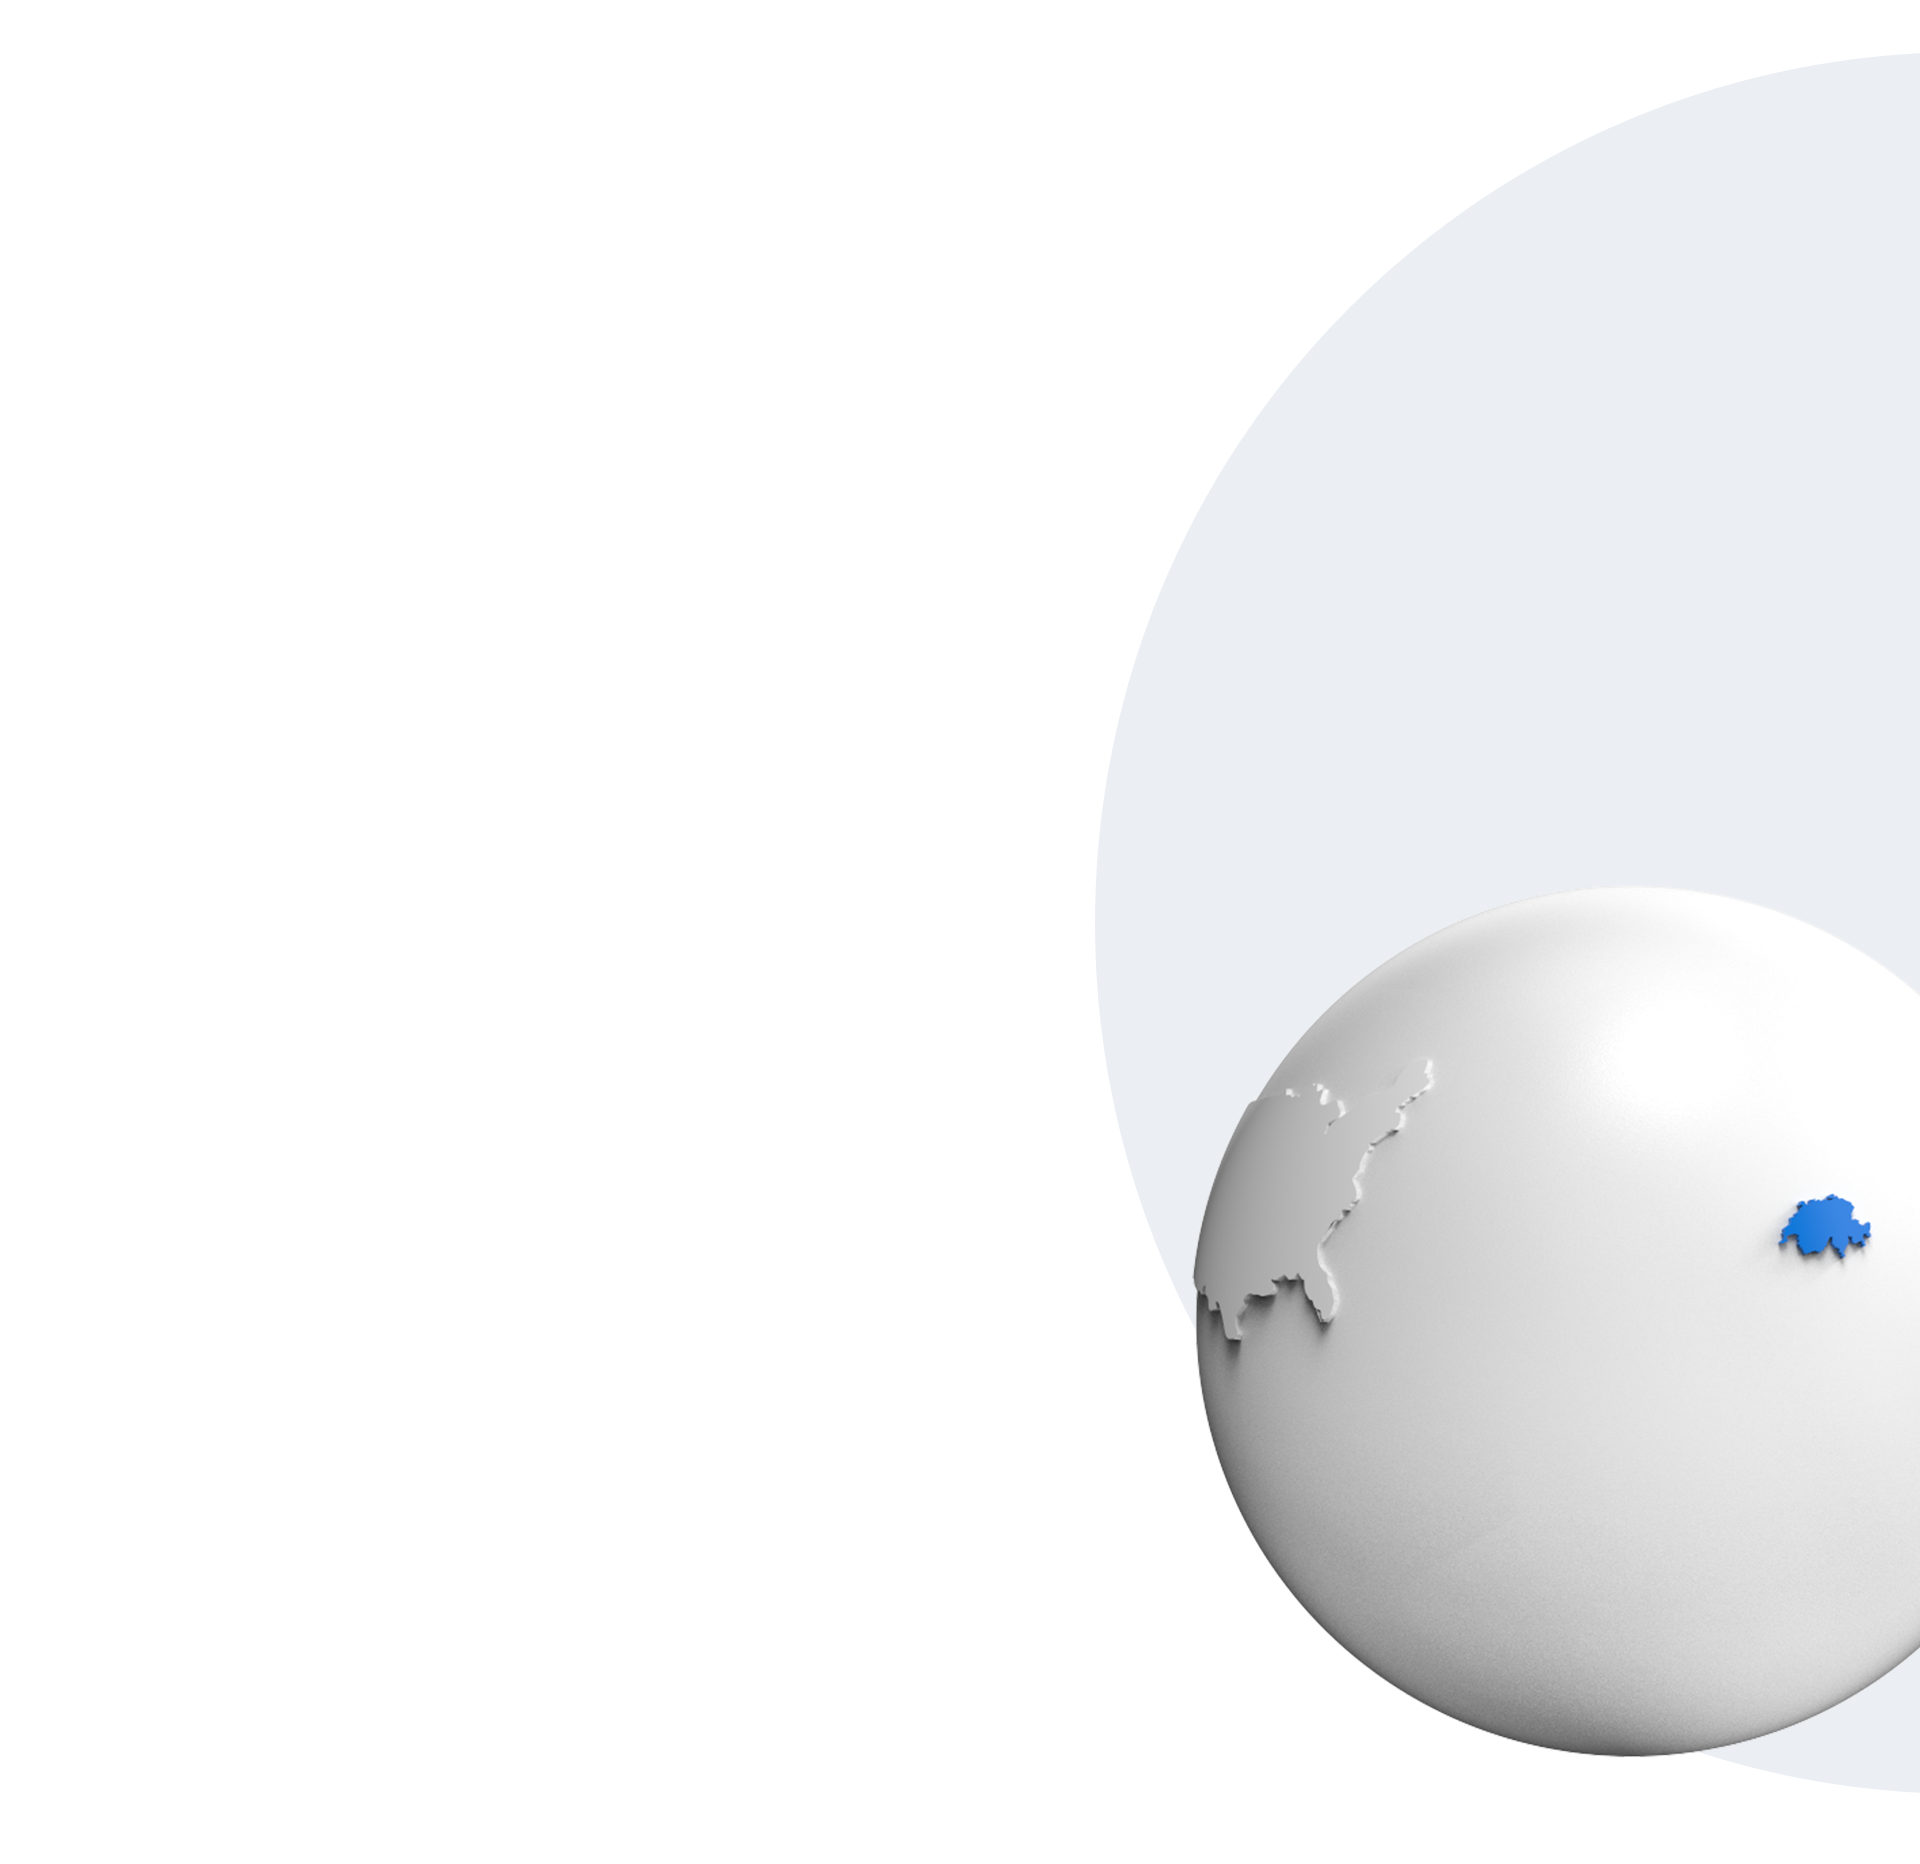
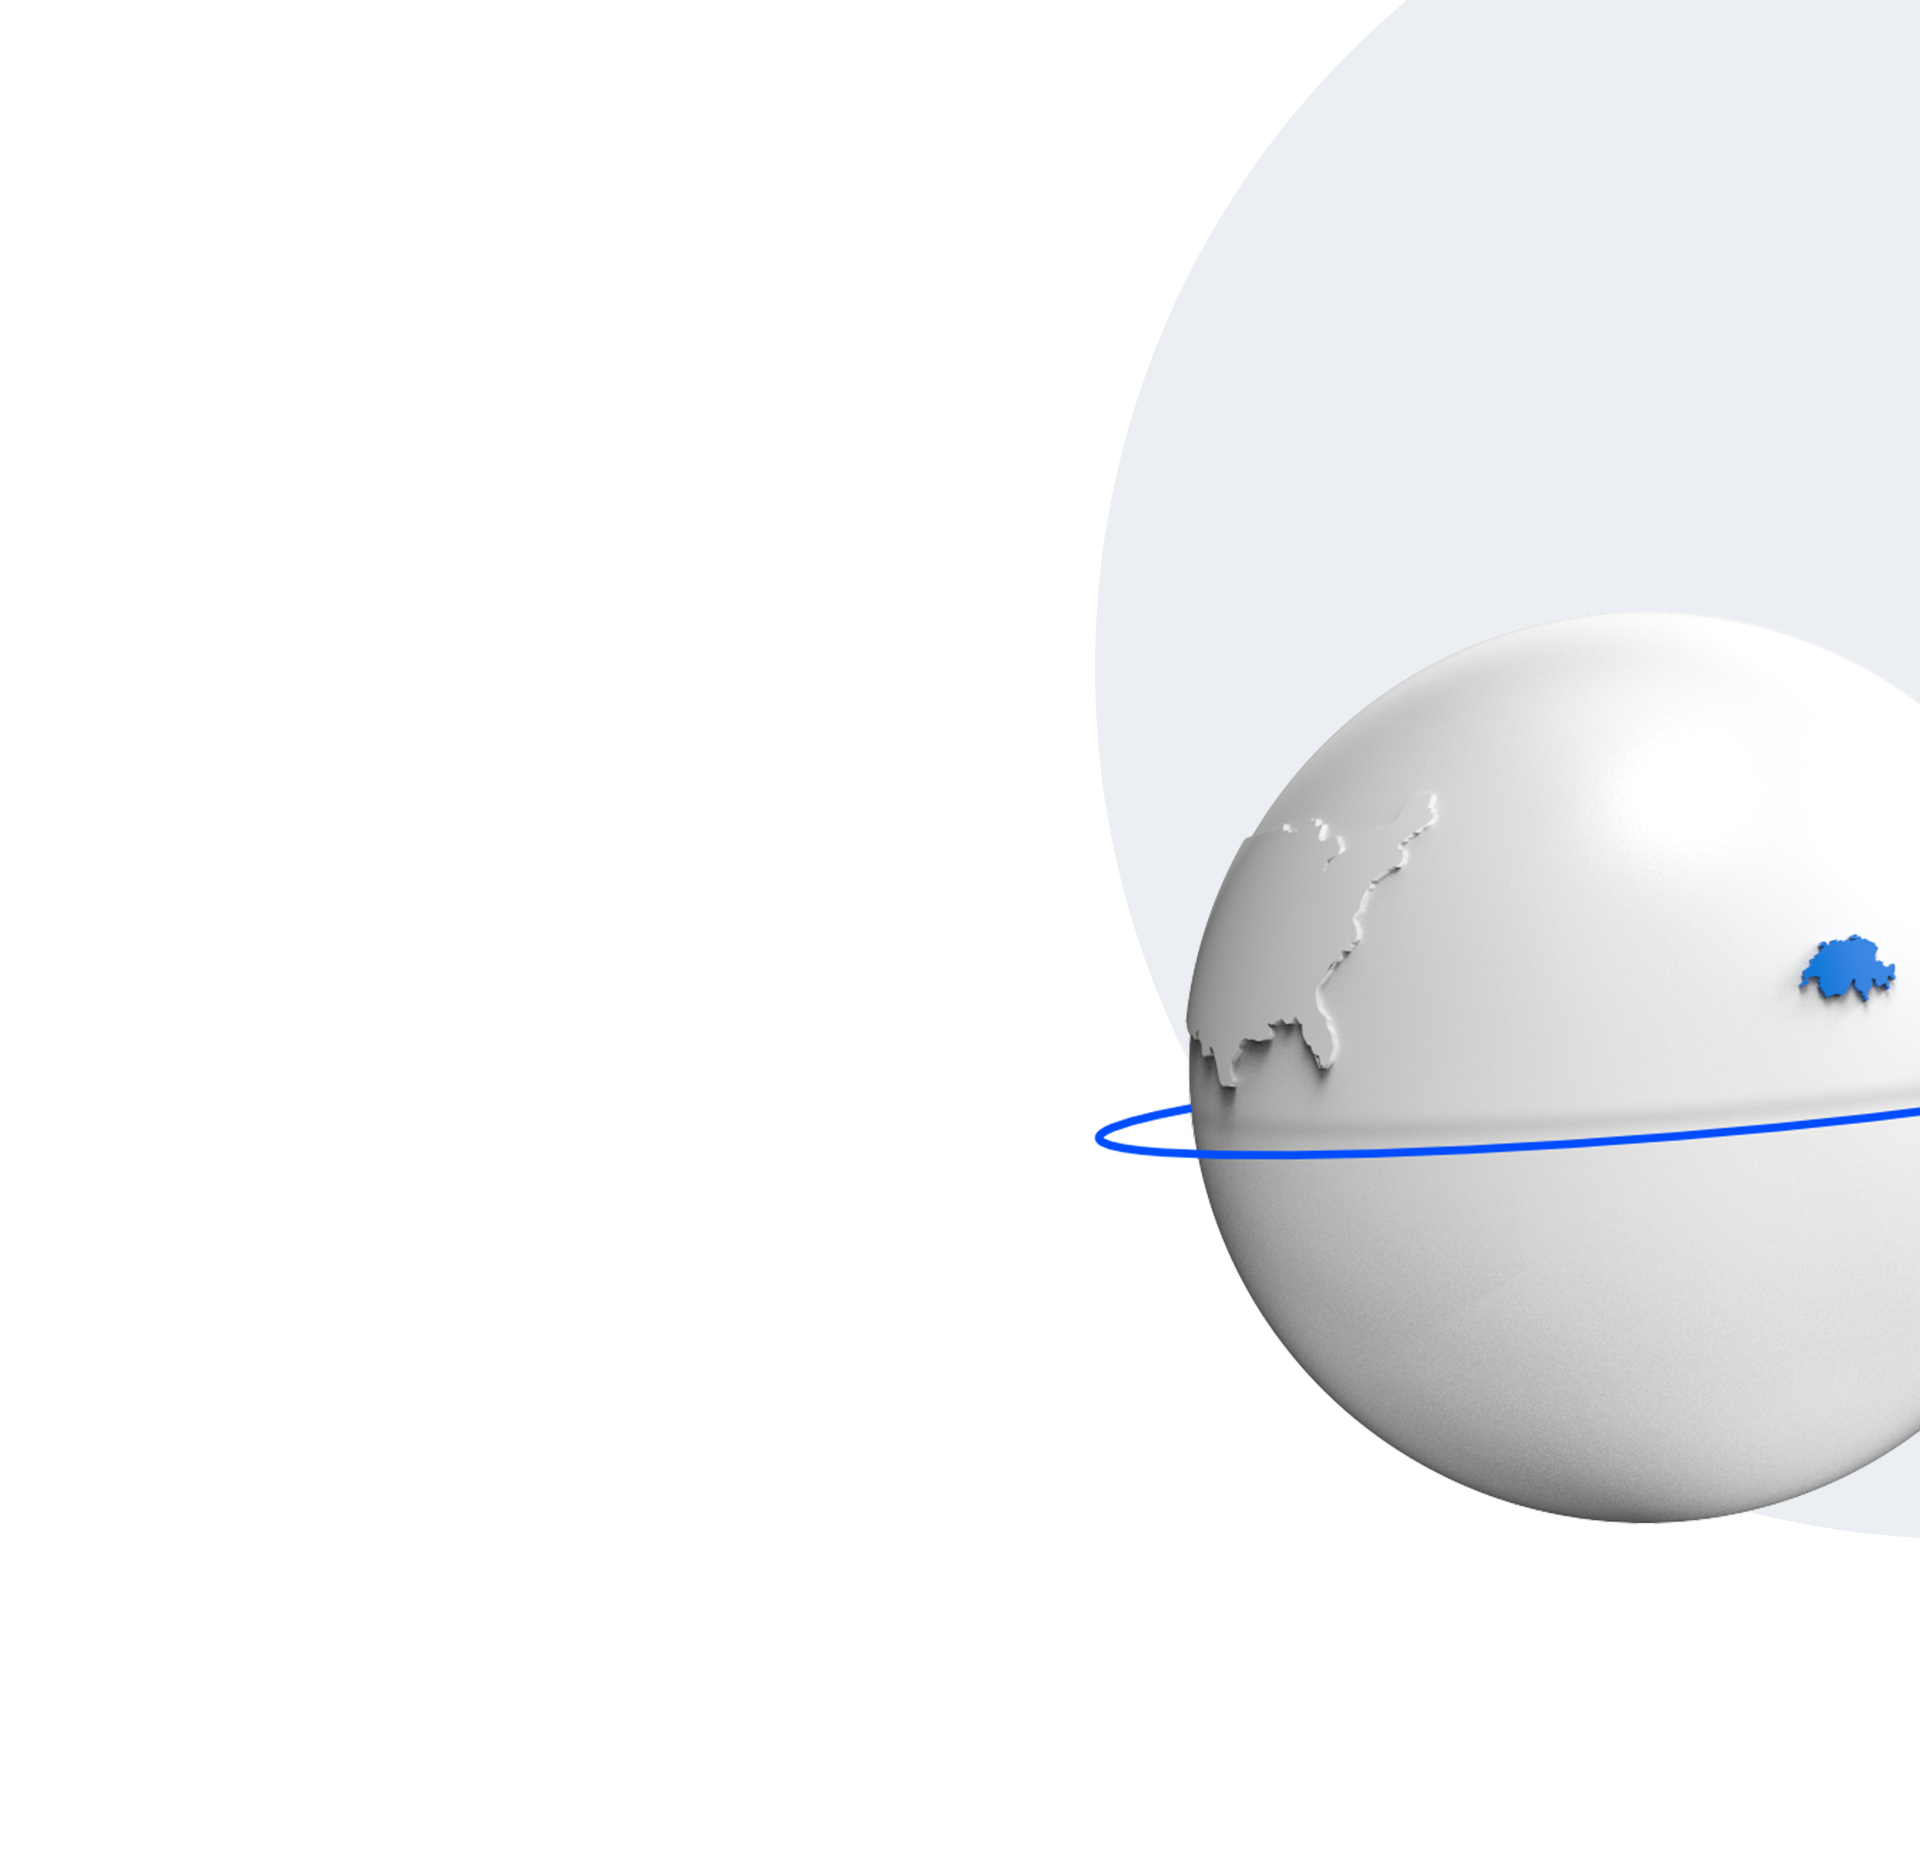
Linien Interlink

Changed region(s): [[0.5625, 0.3423, 1.0, 0.9646], [0.9688, 0.7468, 1.0, 0.7779]]

diff --git a/pages/produkte/interlink.vue b/pages/produkte/interlink.vue
@@ -27,103 +27,107 @@
 				</div>
 			</div>
 		</div>
-		<div class="background-diagonal-2">
-			<div style="margin-top: 8rem" class="vernetzen">
+		<div class="linebg">
+			<div>
+				<div style="margin-top: 8rem" class="vernetzen">
+					<div class="container">
+						<div class="grid cols-2">
+							<div style="margin-top: 16rem">
+								<h3>Unabhängig Vernetzen</h3>
+								<h2>Echtzeit Kommunikation zwischen allen Systemen</h2>
+								<p>
+									InterLink "übersetzt" die spezifischen Protokolle in ein Einheitliches. Die Kommunikation zwischen den Terminals
+									und dem Managementsystem findet in Echtzeit statt. Weltweit. Dabei spielt es keine Rolle, ob die Installation nur
+									ein einziges Terminal umfasst oder mehrere Tausend in einem Grosskonzern mit global verteilten
+								</p>
+							</div>
+						</div>
+					</div>
+				</div>
+			</div>
+			<div class="something" style="margin-top: 10rem">
+				<div class="container">
+					<h3 style="text-align: center">BIXBI SYSTEMS / KABA / MPDV / PCS / PRIMION / TYCO / VICKING</h3>
+					<h2 style="text-align: center; margin-bottom: 8rem">InterLink kommuniziert mit Terminals verschiedener Hersteller</h2>
+					<div class="grid cols-5">
+						<div style="grid-column: span 3">
+							<h1 style="font-size: 5rem; margin-bottom: 0; line-height: 1em">20</h1>
+							<h3 style="margin-bottom: 2rem">Jahre</h3>
+							<h1 style="font-size: 5rem; margin-bottom: 0; line-height: 1em">30'000</h1>
+							<h3 style="margin-bottom: 2rem">Terminals</h3>
+							<h1 style="font-size: 5rem; margin-bottom: 0; line-height: 1em">3'000'000</h1>
+							<h3 style="margin-bottom: 2rem">Buchungen pro Tag</h3>
+						</div>
+						<div style="grid-column: span 2">
+							<p>
+								Mit seinen weltweit über 30'000 Terminals und den damit gemachten 3'000'000 Buchungen pro Tag, hat sich InterLink zu
+								einer stabilen Konstante im Markt entwickelt und ist seit mehr als 20 Jahren mit höchster Zuverlässigkeit im Einsatz.
+								Aktuelle Generationen der Terminals werden unterstützt und neue laufend hinzugefügt.
+							</p>
+						</div>
+					</div>
+				</div>
+			</div>
+			<div class="funktionen" style="margin-top: 16rem">
 				<div class="container">
 					<div class="grid cols-2">
-						<div style="margin-top: 16rem">
-							<h3>Unabhängig Vernetzen</h3>
-							<h2>Echtzeit Kommunikation zwischen allen Systemen</h2>
+						<span></span>
+						<div style="margin-top: 6rem">
+							<h3>Funktionen</h3>
+							<h2>Da schaltet die Konkurrenz ab</h2>
 							<p>
-								InterLink "übersetzt" die spezifischen Protokolle in ein Einheitliches. Die Kommunikation zwischen den Terminals und
-								dem Managementsystem findet in Echtzeit statt. Weltweit. Dabei spielt es keine Rolle, ob die Installation nur ein
-								einziges Terminal umfasst oder mehrere Tausend in einem Grosskonzern mit global verteilten
+								Weitere interessante Aspekte sind der Offline-Betrieb, die Datensicherung, sowie ein einzigartiges technisches
+								Analysetool.
 							</p>
 						</div>
 					</div>
 				</div>
 			</div>
 		</div>
-		<div class="something" style="margin-top: 8rem">
-			<div class="container">
-				<h3 style="text-align: center">BIXBI SYSTEMS / KABA / MPDV / PCS / PRIMION / TYCO / VICKING</h3>
-				<h2 style="text-align: center; margin-bottom: 8rem">InterLink kommuniziert mit Terminals verschiedener Hersteller</h2>
-				<div class="grid cols-5">
-					<div style="grid-column: span 3">
-						<h1 style="font-size: 5rem; margin-bottom: 0; line-height: 1em">20</h1>
-						<h3 style="margin-bottom: 2rem">Jahre</h3>
-						<h1 style="font-size: 5rem; margin-bottom: 0; line-height: 1em">30'000</h1>
-						<h3 style="margin-bottom: 2rem">Terminals</h3>
-						<h1 style="font-size: 5rem; margin-bottom: 0; line-height: 1em">3'000'000</h1>
-						<h3 style="margin-bottom: 2rem">Buchungen pro Tag</h3>
-					</div>
-					<div style="grid-column: span 2">
-						<p>
-							Mit seinen weltweit über 30'000 Terminals und den damit gemachten 3'000'000 Buchungen pro Tag, hat sich InterLink zu einer
-							stabilen Konstante im Markt entwickelt und ist seit mehr als 20 Jahren mit höchster Zuverlässigkeit im Einsatz. Aktuelle
-							Generationen der Terminals werden unterstützt und neue laufend hinzugefügt.
-						</p>
-					</div>
-				</div>
-			</div>
-		</div>
-		<div class="funktionen" style="margin-top: 16rem">
-			<div class="container">
-				<div class="grid cols-2">
-					<span></span>
-					<div style="margin-top: 6rem">
-						<h3>Funktionen</h3>
-						<h2>Da schaltet die Konkurrenz ab</h2>
-						<p>
-							Weitere interessante Aspekte sind der Offline-Betrieb, die Datensicherung, sowie ein einzigartiges technisches
-							Analysetool.
-						</p>
-					</div>
-				</div>
-			</div>
-		</div>
 		<div class="background-diagonal-3">
-			<div class="clock">
-				<div class="container">
-					<div :class="{ text: true, open: showContentKomp }">
-						<h3>ARBEITSZEITEN AUSWERTEN</h3>
-						<h2>Kommunikation kann so viel mehr</h2>
-						<p class="intro">
-							Auf der Plattform eines Systemanbieters werden Arbeitszeiten ausgewertet und Zutrittsberechtigungen der Mitarbeitenden in
-							einem Betrieb festgelegt. Diese Vorgänge erfordern eine Kommunikation mit den Terminals, die auf die Standorte der.
-						</p>
-						<img
-							@click="toggleContentKomp"
-							:class="{
-								'more-icon': true,
-								mirrored: showContentKomp,
-							}"
-							src="https://admin.conzepta.rechtwinklig.ch/wp-content/uploads/2020/11/icon_arrowDown.png"
-							alt=""
-						/>
-						<p :class="{ more: true, active: showContentKomp }">
-							Oftmals stehen in einem Betrieb Terminals verschiedener Hersteller im Einsatz. Dabei zeigt sich oft folgendes Problem: Die
-							Terminals der verschiedenen Hersteller ‘’sprechen eine unterschiedliche Sprache’’, d.h. die Terminals und ihr Host
-							verstehen einander nicht!.
-						</p>
+			<div class="padding-large">
+				<div class="clock">
+					<div class="container">
+						<div :class="{ text: true, open: showContentKomp }">
+							<h3>ARBEITSZEITEN AUSWERTEN</h3>
+							<h2>Kommunikation kann so viel mehr</h2>
+							<p class="intro">
+								Auf der Plattform eines Systemanbieters werden Arbeitszeiten ausgewertet und Zutrittsberechtigungen der Mitarbeitenden
+								in einem Betrieb festgelegt. Diese Vorgänge erfordern eine Kommunikation mit den Terminals, die auf die Standorte der.
+							</p>
+							<img
+								@click="toggleContentKomp"
+								:class="{
+									'more-icon': true,
+									mirrored: showContentKomp,
+								}"
+								src="https://admin.conzepta.rechtwinklig.ch/wp-content/uploads/2020/11/icon_arrowDown.png"
+								alt=""
+							/>
+							<p :class="{ more: true, active: showContentKomp }">
+								Oftmals stehen in einem Betrieb Terminals verschiedener Hersteller im Einsatz. Dabei zeigt sich oft folgendes Problem:
+								Die Terminals der verschiedenen Hersteller ‘’sprechen eine unterschiedliche Sprache’’, d.h. die Terminals und ihr Host
+								verstehen einander nicht!.
+							</p>
+						</div>
 					</div>
 				</div>
-			</div>
-		</div>
-		<div class="banner" style="margin-top: 8rem">
-			<div class="container">
-				<div class="grid cols-2">
-					<div></div>
-					<div style="margin-top: 16rem">
-						<h3>VERBINDET BESTEHENDE SYSTEME</h3>
-						<h1>Öffnet Türen</h1>
-						<p>
-							InterLink entfaltet dabei eine seiner einzigartigen Eigenschaften: Er übersetzt die Sprachen (Protokolle) der Terminals
-							auf dasjenige Protokoll seines (Gesprächs-) Partners und wieder zurück. Dies scheint auf den ersten Blick einfach, doch es
-							ist ähnlich komplex wie bei der Übersetzung einer natürlichen Sprache: Es reicht nicht nur eine Wort-zu-Wort Übersetzung,
-							sondern es muss der ganze Kontext berücksichtigt werden. Technisch gesehen sind dies z.B. unterschiedliche Datenstrukturen
-							der beiden Systeme, die es aufeinander abzustimmen.
-						</p>
+				<div class="banner-footer" style="margin-top: 8rem">
+					<div class="container">
+						<div class="grid cols-2">
+							<div></div>
+							<div style="margin-top: 16rem">
+								<h3>VERBINDET BESTEHENDE SYSTEME</h3>
+								<h1>Öffnet Türen</h1>
+								<p>
+									InterLink entfaltet dabei eine seiner einzigartigen Eigenschaften: Er übersetzt die Sprachen (Protokolle) der
+									Terminals auf dasjenige Protokoll seines (Gesprächs-) Partners und wieder zurück. Dies scheint auf den ersten
+									Blick einfach, doch es ist ähnlich komplex wie bei der Übersetzung einer natürlichen Sprache: Es reicht nicht nur
+									eine Wort-zu-Wort Übersetzung, sondern es muss der ganze Kontext berücksichtigt werden. Technisch gesehen sind
+									dies z.B. unterschiedliche Datenstrukturen der beiden Systeme, die es aufeinander abzustimmen.
+								</p>
+							</div>
+						</div>
 					</div>
 				</div>
 			</div>
@@ -155,6 +159,15 @@ export default {
 </script>
 
 <style lang="sass" scoped>
+.linebg
+	background-image: url('/linebg.png')
+	background-position: top center
+	padding: 50vh 0
+	margin: -50vh 0 //-70vh
+	position: relative
+	background-size: contain
+	background-repeat: no-repeat
+	z-index: -99
 .background-diagonal-2
 	background-image: url('/bgdiag2.svg')
 	background-position: center
@@ -165,10 +178,19 @@ export default {
 	z-index: -99
 .background-diagonal-3
 	background-image: url('/bgdiag3.svg')
-	background-position: center
+	background-position: top center
 	background-repeat: no-repeat
+	margin: -20rem 0
+	padding: 10rem 0
+.banner-footer
+	background-image: url('/interlink-footer.png')
+	background-repeat: no-repeat
+	background-size: cover
+	background-position: center
+	min-height: 65.66961251vw
+	z-index: 99
 .banner
-	background-image: url('https://admin.conzepta.rechtwinklig.ch/wp-content/uploads/2020/11/interlink_banner.png')
+	background-image: url('https://admin.conzepta.rechtwinklig.ch/wp-content/uploads/2021/01/interlink_banner-copy.png')
 	background-repeat: no-repeat
 	background-size: cover
 	background-position: center
@@ -181,7 +203,7 @@ export default {
 	background-position: top center
 	min-height: 80vw
 .funktionen
-	background-image: url('https://admin.conzepta.rechtwinklig.ch/wp-content/uploads/2020/11/background3.png')
+	background-image: url('https://admin.conzepta.rechtwinklig.ch/wp-content/uploads/2021/01/background3-2.png')
 	background-repeat: no-repeat
 	background-size: cover
 	background-position: center

diff --git a/components/produkte/ProductPanel.vue b/components/produkte/ProductPanel.vue
@@ -2,25 +2,15 @@
 	<article
 		:class="{
 			'project-panel br valign-end': true,
-			'is-fullsize':
-				product.acf.product_panelimage.product_panelimage_fullsize,
+			'is-fullsize': product.acf.product_panelimage.product_panelimage_fullsize,
 			['span-' + product.acf.columns]: true,
 		}"
 	>
-		<div
-			class="product-featured-image"
-			:style="
-				'background-image: url(' +
-				product.acf.product_panelimage.product_panelimage_src.url +
-				')'
-			"
-		></div>
+		<div class="product-featured-image" :style="'background-image: url(' + product.acf.product_panelimage.product_panelimage_src.url + ')'"></div>
 		<div class="product-panel-text p-2">
 			<h4 v-html="product.title.rendered" />
 			<p v-html="product.acf.product_subtitle" />
-			<nuxt-link :to="'/produkte/' + product.slug"
-				><CButton text="Mehr"
-			/></nuxt-link>
+			<nuxt-link :to="'/produkte/' + product.slug"><CButton text="Mehr" /></nuxt-link>
 		</div>
 	</article>
 </template>
@@ -93,5 +83,5 @@ article
 			grid-column: 1/-1
 		.product-panel-text
 			grid-row: 1/-1
-			grid-column: 1
+			grid-column: 2
 </style>
